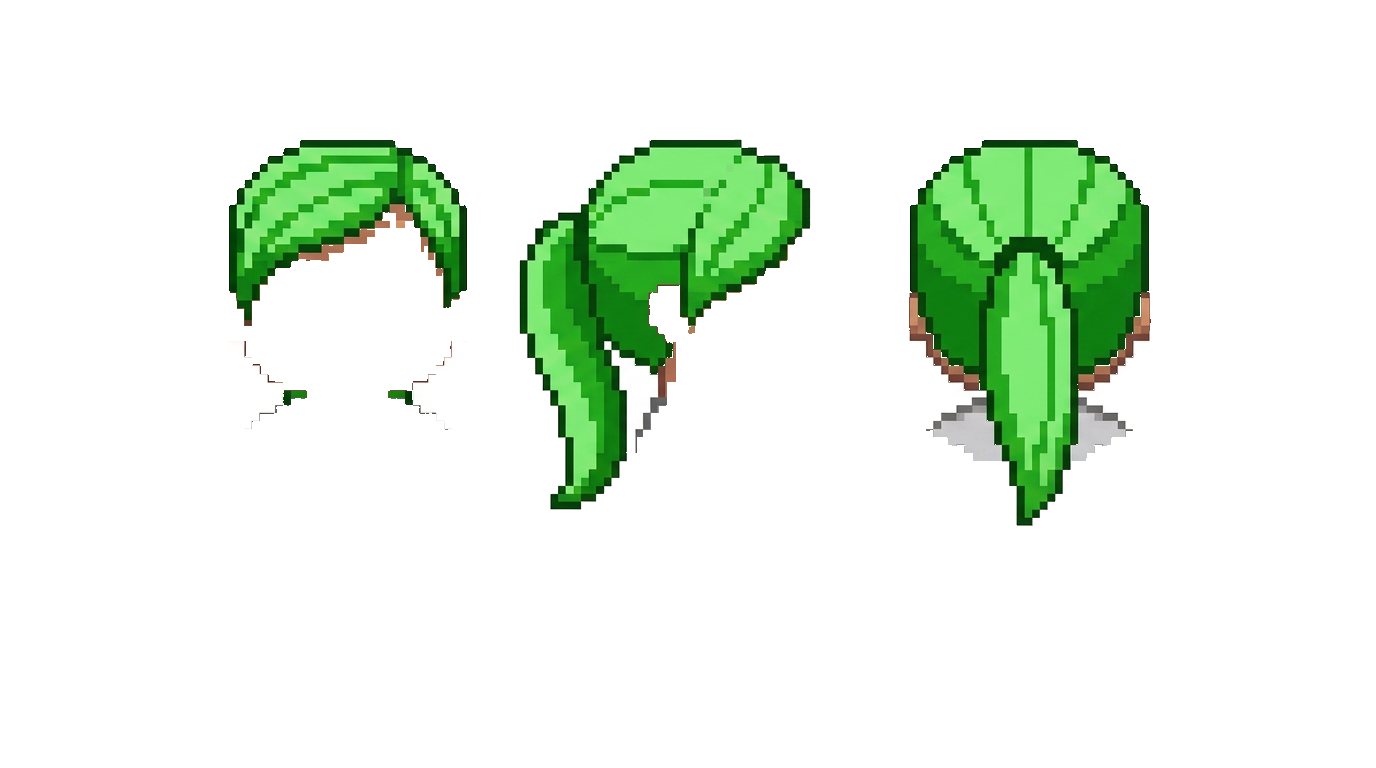
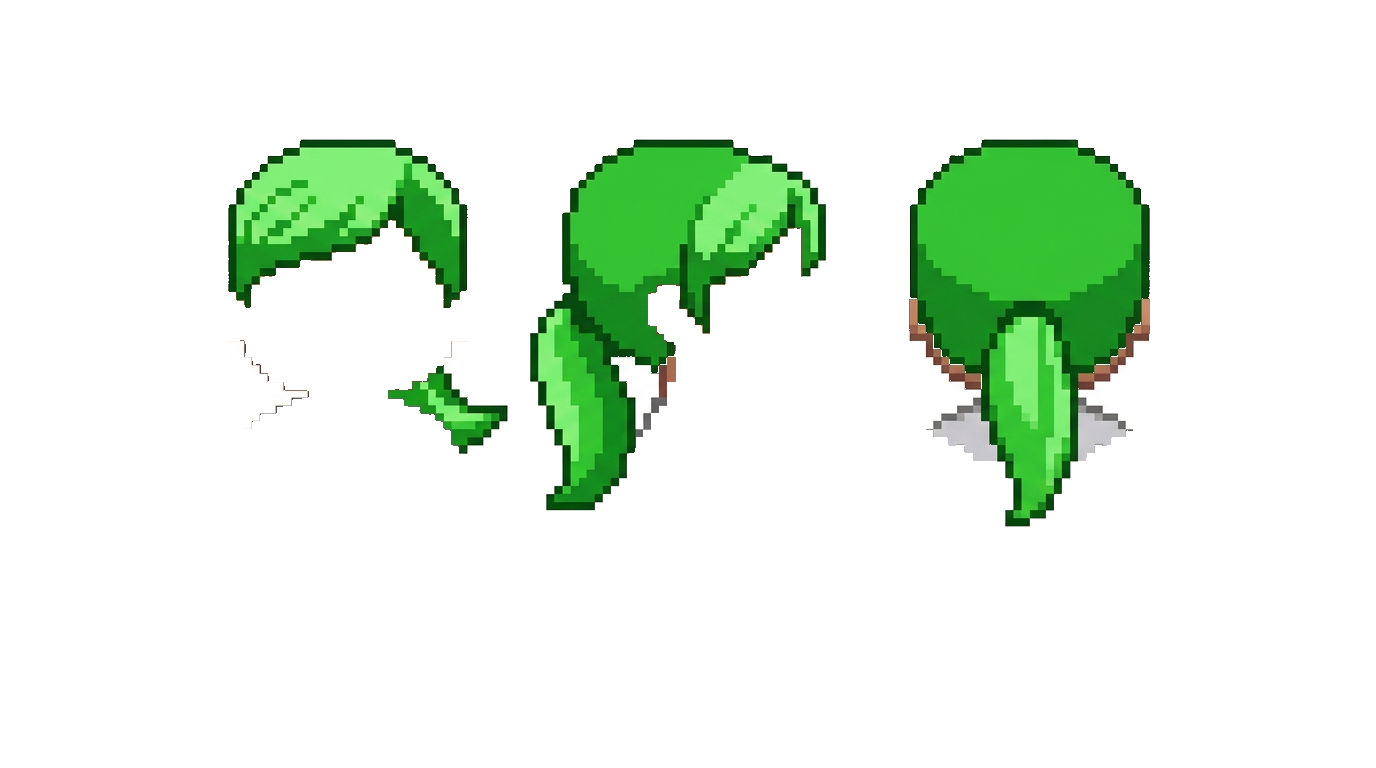
fix(dressup): 馬尾正面看得到、被圍住的背景挖透明、換裝預覽不帶到側面
- 女生馬尾重畫：prompt 寫明正面要露出馬尾
- 長髮換馬尾時，馬尾、脖子、背包圍住的背景直接挖透明（compose 回傳 holes）
- 頭髮拿掉後露出的上衣：有穿外套就補外套色，不再露出白 T 恤
- 換裝頁正面預覽洗掉伸進框裡的側面馬尾

diff --git a/backend/dressup.py b/backend/dressup.py
@@ -531,8 +531,9 @@ def _apply_face(rgb: np.ndarray, cat: np.ndarray, part: dict, face: dict, origin
 
 
 def compose(selection: Optional[dict] = None, colors: Optional[dict] = None,
-            box: Optional[Sequence[int]] = None, base_id: Optional[str] = None) -> Image.Image:
-    """組出一張三視圖（白底 RGB，CANVAS 大小）。
+            box: Optional[Sequence[int]] = None, base_id: Optional[str] = None,
+            with_holes: bool = False):
+    """組出一張三視圖（白底 RGB，CANVAS 大小）。with_holes=True 時回傳 (圖, holes)。
 
     selection：{"hair": id|None, "top": id|None, "outer": id|None, "bottom": id|None,
                 "shoes": id|None, "expression": id|None, "brows": id|None, "acc": [id, ...]}；
@@ -541,6 +542,9 @@ def compose(selection: Optional[dict] = None, colors: Optional[dict] = None,
              "acc": {id: "#RRGGBB"}}
     box：只組這一塊 (x0, y0, x1, y1)（換裝頁的即時預覽只要正面，快三倍）
     base_id：哪個素體（manifest 的 bases；沒給是第一個）
+    holes：組完之後確定是背景的格子（素體的背景、被擦掉的頭髮）。馬尾、脖子、背包
+           會把一塊背景圍住，去背只從圖邊往裡清、走不到 —— 呼叫端要把這些格子直接挖成透明。
+           眼白也是白的，但不連到素體的圖邊，不算
     """
     manifest = load_manifest()
     base_id = base_id or default_base(manifest)
@@ -568,6 +572,13 @@ def compose(selection: Optional[dict] = None, colors: Optional[dict] = None,
             hidden.update(parts[pid].get("hides", []))
 
     acc_ids = [p for p in (selection.get("acc") or []) if p in parts]
+    base_hair = cat == C_HAIR
+    erased_hair = np.zeros(cat.shape, dtype=bool)
+    # 頭髮拿掉後露出來的上衣（L_TOP）：有穿外套就是外套 —— 長髮素體的外套原圖裡，
+    # 那一塊被頭髮蓋著沒畫到，只補 T 恤的話換馬尾時背上會露出一塊白
+    outer_on = (isinstance(selection.get("outer"), str) and selection["outer"] in parts
+                and "outer" not in hidden and _usable(parts[selection["outer"]], base_id))
+    tee_as_outer = np.zeros(cat.shape, dtype=bool)
     for cat_id in DRAW_ORDER:
         if cat_id in hidden:
             continue
@@ -580,18 +591,29 @@ def compose(selection: Optional[dict] = None, colors: Optional[dict] = None,
             layer_rgb, mask = _layer(pid, base_id)
             layer_rgb, mask = layer_rgb[crop], mask[crop]
             code = C_ACC0 + acc_ids.index(pid) if cat_id == "acc" else CATEGORY_CODE[cat_id]
-            paint = (mask != L_NONE) & (mask != L_ERASE)
+            # 露出來的上衣只補在還是頭髮的地方：外套、上衣已經畫在那裡的話不蓋掉
+            tee = (mask == L_TOP) & (cat == C_HAIR)
+            paint = (mask != L_NONE) & (mask != L_ERASE) & ((mask != L_TOP) | tee)
             rgb[paint] = layer_rgb[paint]
             from_green[paint] = False
+            tee_as_outer &= ~paint
             cat[mask == L_PART] = code
             from_green[mask == L_PART] = True
             cat[mask == L_SKIN] = C_SKIN
             cat[mask == L_HAIR] = C_HAIR
-            cat[mask == L_TOP] = C_TOP
+            if outer_on:
+                tee_as_outer |= tee
+                cat[tee] = C_FIXED
+            else:
+                cat[tee] = C_TOP
             cat[mask == L_FIXED] = C_FIXED
             erase = mask == L_ERASE
             rgb[erase] = 255
             cat[erase] = C_BG
+            erased_hair |= erase & base_hair
+            tee_as_outer &= ~erase
+
+    _recolor(rgb, tee_as_outer, BASE_REF[C_TOP], _hex(colors["outer"]))
 
     if "top" in hidden:
         # 無袖洋裝之類蓋掉上衣的：素體 T 恤沒被蓋到的地方（袖口）是手臂，換成皮膚
@@ -611,4 +633,47 @@ def compose(selection: Optional[dict] = None, colors: Optional[dict] = None,
         _recolor(rgb, sel & from_green, KEY_GREEN_REF, target)
         if code in BASE_REF:
             _recolor(rgb, sel & ~from_green, BASE_REF[code], target)
-    return Image.fromarray(rgb)
+    img = Image.fromarray(rgb)
+    if not with_holes:
+        return img
+    holes = (cat == C_BG) & (_base_outside(base_id)[crop] | erased_hair)
+    return img, holes
+
+
+def _base_outside(base_id: Optional[str] = None) -> np.ndarray:
+    """素體上連到圖邊的背景（快取）"""
+    key = ("outside", base_id or default_base())
+    if key not in _label_cache:
+        _label_cache[key] = _outside(base_canvas(base_id=key[1]))
+    return _label_cache[key]
+
+
+def compose_front(selection: Optional[dict] = None, colors: Optional[dict] = None,
+                  base_id: Optional[str] = None):
+    """換裝頁的即時預覽：只組正面那一塊，回傳 (圖, holes)。
+
+    框是素體正面左右各多留一點（帽沿、髮髻），但側面那個人的馬尾、包包可能伸進來 ——
+    從素體正面的右緣往右找第一條整欄全白的縫，縫右邊的全部洗白。
+    """
+    box = front_box(base_id=base_id)
+    img, holes = compose(selection, colors, box=box, base_id=base_id, with_holes=True)
+    rgb = np.asarray(img).copy()
+    x1 = _front_right(base_id) - box[0]
+    blank = (rgb.min(axis=2) >= 255 - NEIGHBOUR_WHITE_TOL).all(axis=0)
+    gap = np.nonzero(blank[x1:])[0]
+    if len(gap):
+        rgb[:, x1 + gap[0]:] = 255
+        holes[:, x1 + gap[0]:] = False
+    return Image.fromarray(rgb), holes
+
+
+# 找兩人之間的空白縫時，多白算白（跟 garment_gen 去背的容許值一樣）
+NEIGHBOUR_WHITE_TOL = 18
+
+
+def _front_right(base_id: Optional[str] = None) -> int:
+    """素體正面那個人的右緣（CANVAS 座標）"""
+    key = ("front_right", base_id or default_base())
+    if key not in _label_cache:
+        _label_cache[key] = np.array(find_figures(Image.fromarray(base_canvas(base_id=key[1])))[0][1])
+    return int(_label_cache[key])

diff --git a/backend/tests/test_dressup.py b/backend/tests/test_dressup.py
@@ -10,6 +10,7 @@
 import base64
 import io
 
+import cv2
 import numpy as np
 import pytest
 from PIL import Image as PILImage
@@ -276,6 +277,44 @@ def test_short_hair_on_the_long_haired_base_shows_the_chosen_top():
     px = out[zone]
     grey = (px.max(axis=1) - px.min(axis=1) <= 14) & (_luma(px.astype(float)) >= 150) & (px.min(axis=1) <= 236)
     assert grey.mean() < 0.02, f"肩背上還有 {grey.mean():.1%} 是 T 恤的灰"
+
+
+PONYTAIL_LOOK = {"hair": "hair_ponytail", "outer": "top_hoodie", "acc": ["acc_backpack", "acc_crossbody"]}
+
+
+def test_background_shut_in_by_a_ponytail_is_a_hole():
+    """長髮換馬尾：馬尾、脖子、背包圍住的那塊背景要挖透明（去背從圖邊清，走不到），眼白不能挖。"""
+    for base_id in [b["id"] for b in dressup.bases()]:
+        img, holes = dressup.compose(PONYTAIL_LOOK, {}, base_id=base_id, with_holes=True)
+        rgb = np.asarray(img)
+        base = dressup.base_canvas(base_id=base_id)
+        eye_whites = (base.min(axis=2) > dressup.WHITE) & ~dressup._base_outside(base_id)
+        # 被圍住的白：連不到圖邊（去背清不到）、又不是眼白。部件本身一兩格的白色高光不算，只看成塊的
+        shut_in = (rgb.min(axis=2) > dressup.WHITE) & ~dressup._outside(rgb) & ~eye_whites & ~holes
+        _, _, stats, _ = cv2.connectedComponentsWithStats(shut_in.astype(np.uint8), connectivity=4)
+        blobs = stats[1:, cv2.CC_STAT_AREA]
+        assert (blobs < 60).all(), f"{base_id}：還有 {blobs.max()} 格一塊的白色背景沒挖掉"
+        assert not (holes & eye_whites).any(), f"{base_id}：眼白被當成背景"
+
+
+def test_hoodie_fills_where_the_long_hair_was():
+    """女生素體的外套原圖裡肩背被長髮蓋著沒畫到：換馬尾後那裡要是外套的顏色，不能露出白 T 恤。"""
+    base_id = _female()
+    rgb = dressup.base_canvas(base_id=base_id)
+    was_hair = dressup._base_label_map(base_id) == dressup.C_HAIR
+    t = dressup._figure_rows(rgb.shape, find_figures(PILImage.fromarray(rgb)))
+    img, holes = dressup.compose({"hair": "hair_ponytail", "outer": "top_hoodie"},
+                                 {"outer": "#2F6FD0", "top": "#F4F4F4"}, base_id=base_id, with_holes=True)
+    px = np.asarray(img).astype(int)[was_hair & ~holes & (t >= 0.3) & (t < 0.8)]
+    tee = (px.max(axis=1) - px.min(axis=1) <= 14) & (px.min(axis=1) >= 200)
+    assert tee.mean() < 0.02, f"肩背上還有 {tee.mean():.1%} 是白 T 恤"
+
+
+def test_preview_shows_only_the_front_figure():
+    """側面那個人的馬尾、包包伸進正面預覽的框裡：要洗掉，不能在換裝頁右邊留一條。"""
+    for base_id in [b["id"] for b in dressup.bases()]:
+        img, _ = dressup.compose_front(PONYTAIL_LOOK, {}, base_id=base_id)
+        assert len(find_figures(img)) == 1, base_id
 
 
 def test_unknown_base_falls_back_to_the_first():

diff --git a/backend/service.py b/backend/service.py
@@ -837,6 +837,7 @@ def _dressup_views(payload: Dict[str, Any], only_front: bool = False):
 
     import dressup
     from garment_gen import _remove_white_background
+    from PIL import Image
     from turnaround import split_turnaround
 
     # 男生／女生素體。舊版手機不送這個欄位 → 第一個素體（男生），行為跟以前一樣
@@ -844,14 +845,17 @@ def _dressup_views(payload: Dict[str, Any], only_front: bool = False):
     sel, col = dressup.clean_request(payload.get("selection"), payload.get("colors"), base_id)
     if only_front:
         # 預覽：素體的位置固定，只組正面那一塊，不必切三視圖
+        img, holes = dressup.compose_front(sel, col, base_id=base_id)
+        # 被圍住的、頭髮擦掉的地方先挖成透明：去背會把透明當背景留著
+        rgba = np.dstack([np.asarray(img), np.where(holes, 0, 255).astype(np.uint8)])
         buf = io.BytesIO()
-        dressup.compose(sel, col, box=dressup.front_box(base_id=base_id), base_id=base_id).save(buf, "PNG")
+        Image.fromarray(rgba, "RGBA").save(buf, "PNG")
         front = base64.b64encode(buf.getvalue()).decode("ascii")
         return {"front": _remove_white_background(front, shield_mask=None)}, sel
-    sheet = dressup.compose(sel, col, base_id=base_id)
+    sheet, holes = dressup.compose(sel, col, base_id=base_id, with_holes=True)
     buf = io.BytesIO()
     sheet.save(buf, "PNG")
-    views, count = split_turnaround(base64.b64encode(buf.getvalue()).decode("ascii"))
+    views, count = split_turnaround(base64.b64encode(buf.getvalue()).decode("ascii"), holes=holes)
     if not views or count != 3:
         raise RuntimeError(f"dressup sheet split into {count} figures")
     # 預覽只看正面：去背是逐張做的，三張都做要多花一倍時間

diff --git a/backend/turnaround.py b/backend/turnaround.py
@@ -227,7 +227,7 @@ def find_figures(img: PILImage.Image) -> List[Tuple[int, int, int, int]]:
     return figures
 
 
-def split_turnaround(png_b64: str) -> Tuple[Optional[dict], int]:
+def split_turnaround(png_b64: str, holes: Optional[np.ndarray] = None) -> Tuple[Optional[dict], int]:
     """把三視圖切成 {"front", "side", "back"} 三張白底 PNG（base64）。
 
     回傳 (views, 找到幾個人)。找到的不是剛好三個時 views 只有 "front"：
@@ -238,6 +238,9 @@ def split_turnaround(png_b64: str) -> Tuple[Optional[dict], int]:
 
     每一張都是完整圖高、白底，左右切在人與人之間的白色欄：
     與正面同一個高度，normalize() 之後三張的比例尺相同，換面時角色不會忽大忽小。
+
+    holes：呼叫端確定是背景的格子（整張圖的座標），一律挖成透明。素體換裝知道哪裡是
+    頭髮被擦掉的地方，不必靠 _enclosed_gaps 猜（它整個略過側面）。
     """
     img = clean_sheet(_decode(png_b64))
     w = img.width
@@ -259,6 +262,8 @@ def split_turnaround(png_b64: str) -> Tuple[Optional[dict], int]:
         # 被圍住的白縫先挖成透明：_remove_white_background 會把透明當成背景
         # 保留下來（它只從圖邊 flood fill，走不到被圍住的縫）
         gaps = _enclosed_gaps(rgb, side_view=(i == 1 and len(figures) == 3))
+        if holes is not None:
+            gaps |= holes[:, left:right]
         rgba = np.dstack([rgb, np.where(gaps, 0, 255).astype(np.uint8)])
         return _encode(PILImage.fromarray(rgba, "RGBA"))
 

diff --git a/docs/notes/GENERATION.md b/docs/notes/GENERATION.md
@@ -519,6 +519,12 @@ garment_gen 把風格註冊進其中一份，service.py 從另一份查詢，查
   **從男生素體逐格複製過去的**（`dressup.make_base`），表情、眉毛、眼珠才能共用；模型自己畫的臉
   總偏 3–5px，貼上去眼睛會歪。衣服髮型每個素體各畫一套（每套 17 張，約 US$1.2），
   manifest 的 `edit_note` 叫模型畫部件時保留長髮，否則畫後背包會順手把頭髮剪短。
+- **長髮換馬尾會圍出一塊背景**：馬尾、脖子、背包把原本頭髮的位置圍住，去背只從圖邊清、
+  走不到，側面會留一塊白三角。`compose(with_holes=True)` 回傳「素體的背景＋被擦掉的頭髮」，
+  `split_turnaround(holes=)` 直接挖透明；不靠 `_enclosed_gaps` 猜（它整個略過側面）。
+  同一個位置露出的上衣，有穿外套就補外套色——女生的外套原圖裡那塊被頭髮蓋著沒畫到。
+- **換裝頁預覽要洗掉鄰居**：正面的框左右多留 48px，女生側面的馬尾會伸進來，
+  `compose_front` 從正面右緣往右找第一條全白的縫，縫右邊洗白。
 - **眼珠只認每隻眼最大的那一塊棕色**：眼角那一格陰影跟眼珠亮部同色（實測都是約 (88,48,32)），
   用顏色分不開，算進去的話藍眼的人眼角也發藍。
 

diff --git a/CLAUDE.md b/CLAUDE.md
@@ -35,7 +35,7 @@
 npm install && pip install -r requirements.txt requirements-dev.txt
 bash start.sh          # 生成服務 :5055 + 互動層 :3000（偵測到 certs/ 自動走 HTTPS）
 npm test               # Node 678      npm run test:e2e   # 端對端 264
-pytest backend/        # Python 579
+pytest backend/        # Python 582
 ```
 
 完整指令（壓測機器人、切片驗證、憑證產生、關閉服務）見
